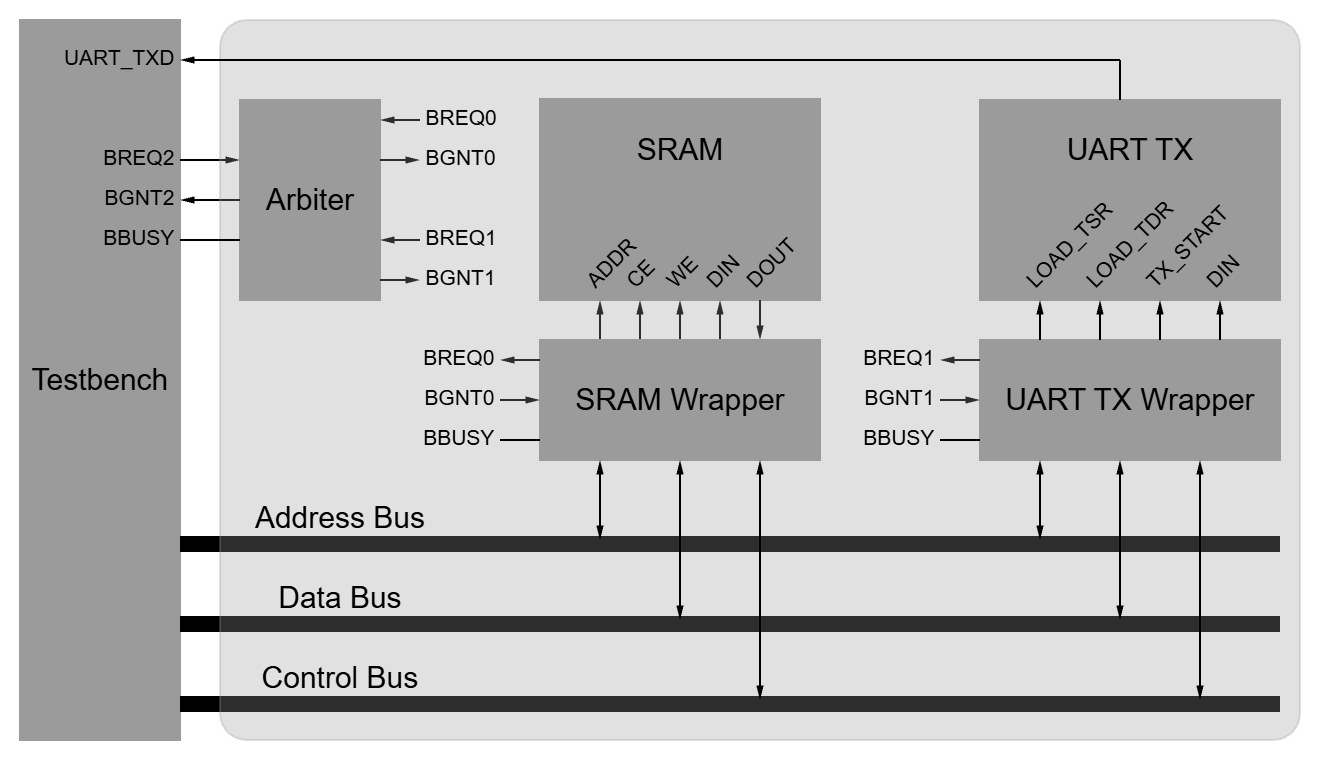
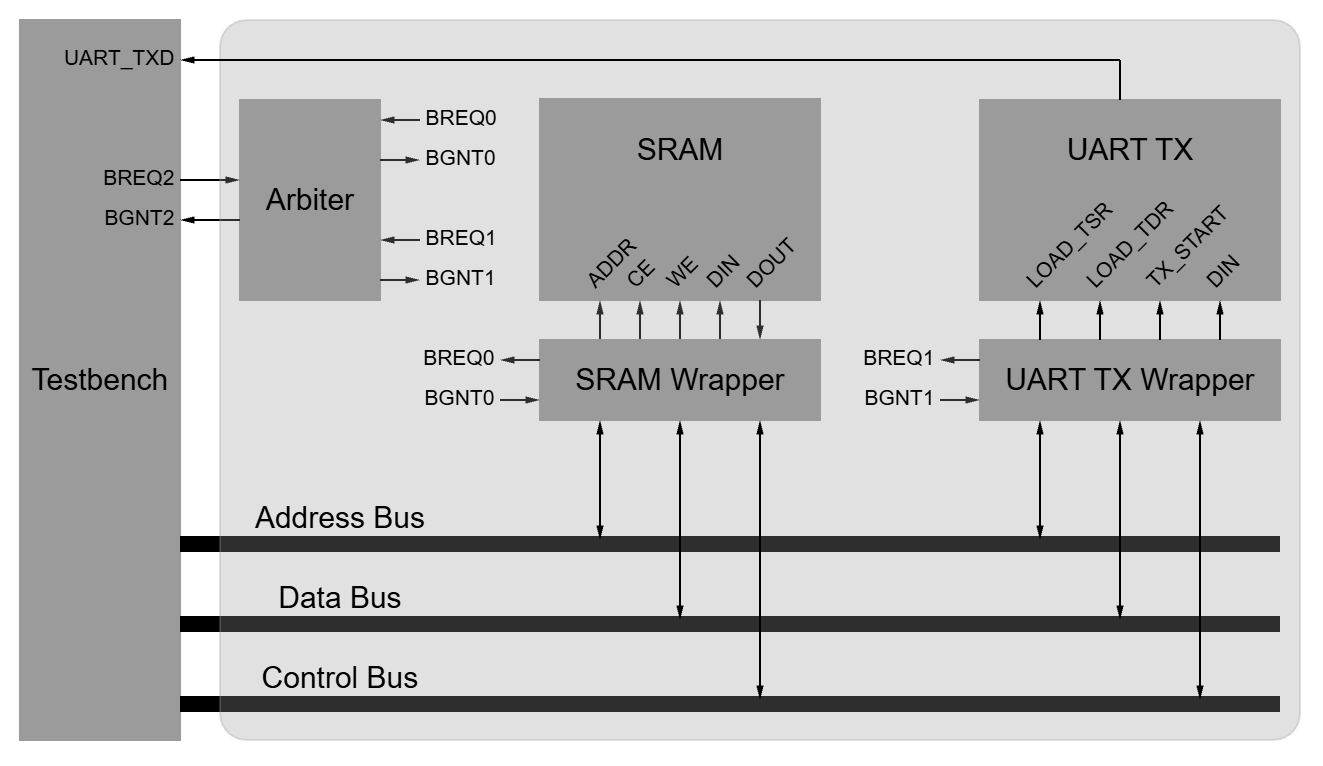
update

diff --git a/_labs/lab-09.md b/_labs/lab-09.md
@@ -84,10 +84,8 @@ In this lab, the ID of the devices are as follows:
 
 
 ## 2.4 Implementation Requirements
-- Implement system bus arbiter in `system_bus_arbiter.v`.
 - Implement system bus SRAM wrapper in `system_bus_sram_wrapper.v`.
 - Implement system bus UART transmitter wrapper in `system_bus_uart_tx_wrapper.v`.
-- Implement the top module in `top.v`.
 
 
 # 3. Lab Procedures
@@ -103,7 +101,7 @@ In this lab, the ID of the devices are as follows:
   - `tar -xvf lab09_code.tar.gz`
   - `rm lab09_code.tar.gz`
 
-4. Confirm that the following directories and files exist in the working directory.
+4. Confirm the following directories and files exist in the working directory.
     - `lib` (directory for technology libraries)
         - `osu018_stdcells.db`
         - `osu018_stdcells.v`
@@ -122,7 +120,12 @@ In this lab, the ID of the devices are as follows:
         - `top_netlist_tb.v`
         - `top_tb.v`
 
-5. Execute the following command if you are not using a computer in ZACH 127.
+5. Copy and paste the following Verilog code into the `rtl` directory:
+    - `uart_tx_controller.v`
+    - `uart_tx_datapath.v`
+    - `uart_tx.v`
+
+6. Execute the following command if you are not using a computer in ZACH 127.
     - `load-ecen-468`
 
 
@@ -135,31 +138,64 @@ In this lab, the ID of the devices are as follows:
 2. Execute the following command to run the simulation.
     - `./simv_top_tb`
 
-3. Execute the following commands in sequence to open Synopsys WaveView.
-    - `source /opt/coe/synopsys/wv/V-2023.12-4/setup.wv.sh`
-    - `wv &`
-
-4. In WaveView, open `top_tb.dump` to view the simulation waveform.
-
-5. Add the following signals
-
-6. Take a screenshot of the waveforms for the lab report.
-
-7. Exit WaveView.
+3. Take a screenshot of the terminal outputs of the simulation.
 
 
-## Submission
+## 3.2 Synthesizing UART Transmitter RTL Design Using Synopsys Design Vision
+1. Execute the following commands in sequence to open Design Vision:
+    - `source /opt/coe/synopsys/syn/V-2023.12-SP1/setup.syn.sh`
+    - `cd $HOME/ecen468/lab09/syn`
+    - `design_vision &`
+
+2. Execute the following commands to set up Design Vision.
+    - `set_app_var link_path ../lib/osu018_stdcells.db`
+    - `set_app_var target_library ../lib/osu018_stdcells.db`
+    - `set_app_var symbol_library ../lib/osu018_stdcells.db`
+
+3. Execute the following command to analyze the design.
+    - `analyze -format verilog {../rtl/top.v}`
+
+4. Execute the following command to elaborate the design.
+    - `elaborate top`
+
+5. Execute the following command to synthesize the design.
+    - `compile -exact_map`
+
+6. Execute the following command to save the optimized netlist.
+    - `write -hierarchy -format verilog -output ./netlist/top.v`
+
+7. Execute the following command to save the Standard Delay Format (SDF) file.
+    - `write_sdf ./sdf/top.sdf`
+
+8. Exit Design Vision.
+
+
+## 3.3 Simulating UART Transmitter Gate-Level Design Using Synopsys VCS
+1. Execute the following commands in sequence to generate simulation.
+    - `source /opt/coe/synopsys/vcs/W-2024.09-SP2-4/setup.vcs.sh`
+    - `cd $HOME/ecen468/lab09/sim`
+    - `vcs -full64 ../tb/top_netlist_tb.v -o simv_top_netlist_tb`
+
+2. Execute the following command to run the simulation.
+    - `./simv_top_netlist_tb`
+
+3. If you get the inout port connection width mismatch error for the `addr_bus_io` ports of the `system_bus_sram_wrapper` and `system_bus_uart_tx` modules, do the following:
+    - Change `tri [19:0] addr_bus_io` to `tri [31:0] addr_bus_io`
+    - Change `tri [31:28] addr_bus_io` to `tri [31:0] addr_bus_io`
+
+3. Take a screenshot of the terminal outputs of the simulation.
+
+
+## 4. Submission
 Please submit a single PDF file containing the following:
 
 Top module RTL design:
-1. Screenshots of the terminal output after running `./simv_top_tb`.
+1. Screenshot of the terminal output after running `./simv_top_tb`.
 2. Justification of the simulation results.
 3. Screenshots or copy of the content of the following files:
-    - `system_bus_arbiter.v`
     - `system_bus_uart_tx_wrapper.v`
     - `system_bus_sram_wrapper.v`
-    - `top.v`
 
 Top module gate-level design:
-1. Screenshots of the simulation output after running `./simv_top_netlist_tb`.
+1. Screenshot of the simulation output after running `./simv_top_netlist_tb`.
 2. Justification of the simulation results.

diff --git a/_labs/lab-01.md b/_labs/lab-01.md
@@ -49,42 +49,29 @@ We will now implement a 256K (262,144) x 8 SRAM, which has 18 address pins and 8
 
 We will use Vista to implement the design. Vista is a native electronic system level (ESL) platform for architecture design, verification, analysis, and virtual prototyping, with an advanced toolset aimed at high-level transaction-level modeling (TLM) hardware platforms.
 
-Please login to the Olympus server and create a working directory for this lab using the following commands.
+# 3. Lab Procedures
 
-```bash
-## Create and navigate to the working directory.
-mkdir -p $HOME/ECEN468/Lab1/src
-cd $HOME/ECEN468/Lab1/src
-```
+## 3.0 Setup
+1. Execute the following commands to create and enter the working directory.
+  - `mkdir -p $HOME/ecen468/lab01/`
+  - `cd $HOME/ecen468/lab01/`
 
-Download the tar.gz file from the lab website and extract it. In the extracted folders, you will find the following files:
+2. Download `lab01_code.tar.gz` from the lab website and put it the working directory.
 
-- `RAM.cpp`
-- `test_RAM.cpp`
+3. Execute the following commands to extract the files.
+  - `tar -xvf lab01_code.tar.gz`
+  - `rm lab01_code.tar.gz`
 
-Copy them to the working directory.
+4. Confirm the following directories and files exist in the working directory.
+    - 
 
-In the terminal, open Vista using the following commands.
+5. Execute the following command if you are not using a computer in ZACH 127.
+    - `load-ecen-468`
 
-```bash
-load-ecen-468   # skip this line on machines in ZACH 127
-source /opt/coe/mentorgraphics/vista/2024_2/setup.vista.linux.bash
-vista &
-```
 
-Once Vista is launched, create a new project: click **Project -> New Project**, set the project name to `RAM.v2p`, go to the **Files** tab (Figure 5), click **Add Files**, and add `RAM.cpp` and `test_RAM.cpp`.
+## 3.1 Building SystemC Design Using Siemens Vista
 
-![Figure 5. Project settings window]({{ "/assets/files/lab01/img/5.png" | relative_url }})
-
-*Figure 5. Project settings window*
-
-Now implement the RAM design in `RAM.cpp`. For reference, an implementation of a 4-bit adder is provided at the end of this manual.
-
-Once you finish your design, compile it to check for syntax and behavioral errors by right-clicking the tab of your design (`RAM`) and selecting **Build**, as shown in Figure 6.
-
-![Figure 6. Screenshot of building project]({{ "/assets/files/lab01/img/6.png" | relative_url }})
-
-*Figure 6. Screenshot of building project*
+## 3.2 Simulating SystemC Design Using Siemens Vista
 
 ## Simulation
 

diff --git a/_labs/lab-08.md b/_labs/lab-08.md
@@ -98,7 +98,7 @@ The expected behavior of the UART transmitter when transmitting `0xA7` is shown 
   - `tar -xvf lab08_code.tar.gz`
   - `rm lab08_code.tar.gz`
 
-4. Confirm that the following directories and files exist in the working directory.
+4. Confirm the following directories and files exist in the working directory.
     - `lib` (directory for technology libraries)
         - `osu018_stdcells.db`
         - `osu018_stdcells.v`
@@ -171,7 +171,7 @@ The expected behavior of the UART transmitter when transmitting `0xA7` is shown 
 7. Execute the following command to save the Standard Delay Format (SDF) file.
     - `write_sdf ./sdf/uart_tx.sdf`
 
-8. Exite Design Vision.
+8. Exit Design Vision.
 
 
 ## 3.3 Simulating UART Transmitter Gate-Level Design Using Synopsys VCS

diff --git a/_labs/lab-07.md b/_labs/lab-07.md
@@ -39,7 +39,7 @@ The block diagram of a basic SRAM cell is shown in the figure below. It has acti
     - `tar -xvf lab07_code.tar.gz`
     - `rm lab07_code.tar.gz`
 
-4. Confirm that the following directories and files exist in the working directory.
+4. Confirm the following directories and files exist in the working directory.
     - `lib` (directory for technology libraries)
         - `osu018_stdcells.db`
         - `osu018_stdcells.v`
